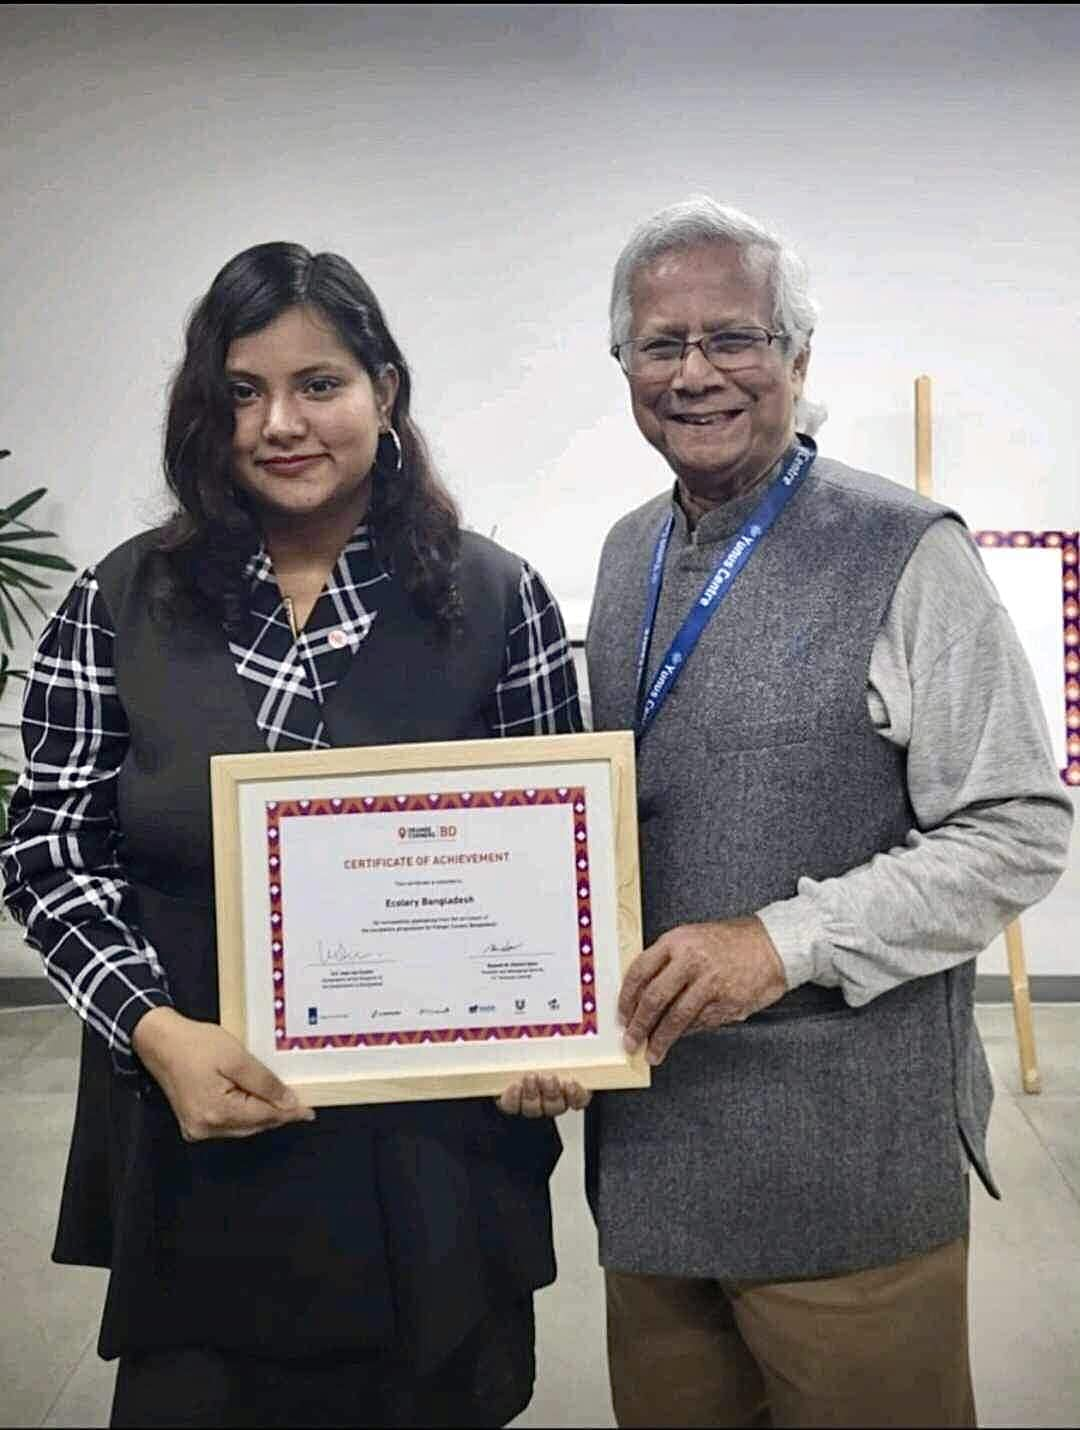
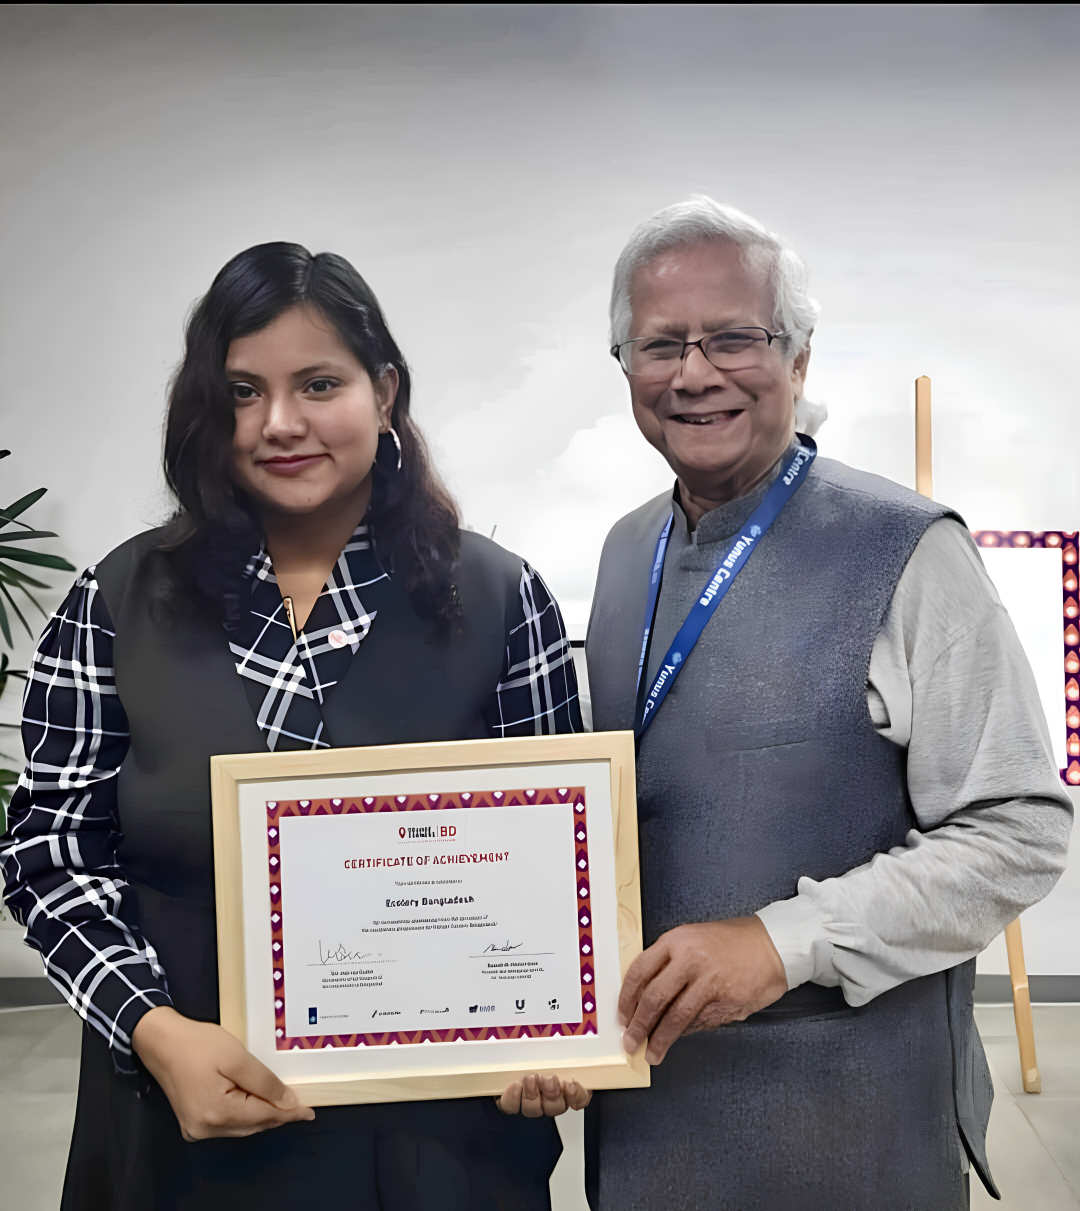
added imagin bento

diff --git a/src/components/template/ImpactSection.tsx b/src/components/template/ImpactSection.tsx
@@ -1,12 +1,12 @@
 "use client";
 
-import { motion, useScroll, useTransform } from "framer-motion";
-import Image from "next/image";
-import { useEffect, useRef } from "react";
 import { ImageWithFallback } from "@/components/shared/ImageWithFallback";
-import { ArrowUpRight, Leaf } from "lucide-react";
-import Link from "next/link";
 import { StaggerChildren, staggerItem } from "@/components/shared/StaggerChildren";
+import { motion, useScroll, useTransform } from "framer-motion";
+import { ArrowUpRight, Leaf } from "lucide-react";
+import Image from "next/image";
+import Link from "next/link";
+import { useEffect, useRef } from "react";
 
 const metrics = [
   { value: "180", unit: "days", label: "Decomposition cycle in soil" },
@@ -29,35 +29,35 @@ const featureCards = [
     fallback: "Recognition — With Dr. Yunus",
   },
   {
-    image: "/gallery/Project%20ASHAA/Training%20women%20Mymensingh.jpg",
+    image: "/bentoGrid/bento1.jpg",
     title: "Training women in Mymensingh",
     subtitle: "Project ASHAA",
     area: "b",
     fallback: "Project ASHAA training",
   },
   {
-    image: "/gallery/InternationalRelationships/IMG-20260511-WA0004.jpg",
+    image: "/bentoGrid/p6.jpg",
     title: "Relationships across borders",
     subtitle: "International",
     area: "c",
     fallback: "International relationships",
   },
   {
-    image: "/gallery/UNESCO%20Green%20Generation%20Campaign%20/IMG_0225.jpg",
+    image: "/bentoGrid/long1.jpg",
     title: "Campaigns that move crowds",
     subtitle: "UNESCO Green Generation",
     area: "d",
     fallback: "UNESCO campaign",
   },
   {
-    image: "/gallery/Some%20Partnerships/NL1A5447-1.JPG",
+    image: "/bentoGrid/p7.jpg",
     title: "Grown together",
     subtitle: "Partnerships",
     area: "e",
     fallback: "Partnership moment",
   },
   {
-    image: "/gallery/UNESCO%20Green%20Generation%20Campaign%20/IMG20260115154539.jpg",
+    image: "/bentoGrid/long2.jpg",
     title: "On the ground",
     subtitle: "Field moments",
     area: "f",
@@ -89,7 +89,7 @@ function MissionSection() {
           video.currentTime = 0;
         }
       },
-      { threshold: 0.3 }
+      { threshold: 0.3 },
     );
 
     observer.observe(el);
@@ -124,11 +124,8 @@ function MissionSection() {
           </p>
         </motion.div>
 
-        <motion.div
-          style={{ y: videoY }}
-          className="relative"
-        >
-          <div className="relative aspect-video overflow-hidden rounded-[2rem] shadow-2xl shadow-ink/15 -rotate-1 transition-transform duration-500 hover:rotate-0 hover:scale-[1.02]">
+        <motion.div style={{ y: videoY }} className="relative">
+          <div className="shadow-ink/15 relative aspect-video -rotate-1 overflow-hidden rounded-[2rem] shadow-2xl transition-transform duration-500 hover:scale-[1.02] hover:rotate-0">
             <video
               ref={videoRef}
               src="/Product feature.mp4"
@@ -138,7 +135,7 @@ function MissionSection() {
               className="absolute inset-0 h-full w-full object-cover"
             />
           </div>
-          <div className="absolute -inset-4 -z-10 rounded-[2.5rem] bg-primary/5 blur-xl" />
+          <div className="bg-primary/5 absolute -inset-4 -z-10 rounded-[2.5rem] blur-xl" />
         </motion.div>
       </div>
     </section>
@@ -211,7 +208,10 @@ export function ImpactSection() {
       </section>
 
       {/* ---------- IMPACT METRICS BAND ---------- */}
-      <section id="impact" className="bg-moss relative scroll-mt-28 overflow-hidden px-6 py-24 md:py-32">
+      <section
+        id="impact"
+        className="bg-moss relative scroll-mt-28 overflow-hidden px-6 py-24 md:py-32"
+      >
         <div className="relative mx-auto max-w-5xl text-center">
           <div className="flex items-center justify-center gap-3">
             <div className="h-px w-12 bg-white/20" />
@@ -225,15 +225,18 @@ export function ImpactSection() {
             The metrics that tell our circular journey
           </h3>
 
-          <StaggerChildren className="mt-16 grid items-start gap-10 sm:grid-cols-3 sm:gap-0 sm:divide-x sm:divide-white/10" staggerDelay={0.15}>
+          <StaggerChildren
+            className="mt-16 grid items-start gap-10 sm:grid-cols-3 sm:gap-0 sm:divide-x sm:divide-white/10"
+            staggerDelay={0.15}
+          >
             {impactStats.map((m) => (
-              <motion.div key={m.label} variants={staggerItem} className="flex flex-col items-center px-6">
-                <p className="font-display text-5xl font-bold text-white md:text-6xl">
-                  {m.value}
-                </p>
-                <p className="font-body mt-3 text-[13px] font-semibold text-white/50">
-                  {m.label}
-                </p>
+              <motion.div
+                key={m.label}
+                variants={staggerItem}
+                className="flex flex-col items-center px-6"
+              >
+                <p className="font-display text-5xl font-bold text-white md:text-6xl">{m.value}</p>
+                <p className="font-body mt-3 text-[13px] font-semibold text-white/50">{m.label}</p>
               </motion.div>
             ))}
           </StaggerChildren>
@@ -251,7 +254,7 @@ export function ImpactSection() {
             </h3>
             <Link
               href="/gallery"
-              className="group border-black/10 bg-white text-ink hover:border-primary hover:bg-primary hover:text-cream flex shrink-0 items-center gap-2 rounded-full border px-5 py-2.5 text-[13px] font-semibold transition-colors duration-300"
+              className="group text-ink hover:border-primary hover:bg-primary hover:text-cream flex shrink-0 items-center gap-2 rounded-full border border-black/10 bg-white px-5 py-2.5 text-[13px] font-semibold transition-colors duration-300"
             >
               View gallery
               <ArrowUpRight className="h-4 w-4" strokeWidth={1.75} />
@@ -279,14 +282,14 @@ export function ImpactSection() {
                   fallbackLabel={card.fallback}
                 />
                 <div className="from-ink/85 absolute inset-0 bg-linear-to-t via-transparent to-transparent opacity-80 transition-opacity duration-500 group-hover:opacity-95" />
-                <div className="absolute bottom-0 left-0 p-5 md:p-6">
+                {/* <div className="absolute bottom-0 left-0 p-5 md:p-6">
                   <p className="font-body text-[11px] font-semibold tracking-[0.14em] text-white/70 uppercase">
                     {card.subtitle}
                   </p>
                   <p className="font-display mt-1 text-base font-bold text-white md:text-xl">
                     {card.title}
                   </p>
-                </div>
+                </div> */}
               </motion.div>
             ))}
           </StaggerChildren>

diff --git a/src/components/sections/GallerySection.tsx b/src/components/sections/GallerySection.tsx
@@ -127,15 +127,18 @@ export function GallerySection({ categories }: { categories: GalleryCategory[] }
         </motion.div>
 
         <motion.div
-          key={`${active}-${visibleCount}`}
-          initial={{ opacity: 0, y: 16 }}
-          animate={{ opacity: 1, y: 0 }}
-          transition={{ duration: 0.5, ease: EASE }}
+          key={active}
+          initial={{ opacity: 0 }}
+          animate={{ opacity: 1 }}
+          transition={{ duration: 0.2, ease: EASE }}
           className="mt-10 grid grid-cols-2 gap-5 md:grid-cols-3"
         >
           {visible.map((img, idx) => (
-            <figure
+            <motion.figure
               key={img.src}
+              initial={{ opacity: 0, y: 24 }}
+              animate={{ opacity: 1, y: 0 }}
+              transition={{ duration: 0.7, ease: EASE }}
               onClick={() => setSelectedIndex(idx)}
               className="bg-moss/10 group relative aspect-[4/3] cursor-pointer overflow-hidden rounded-2xl"
             >
@@ -153,7 +156,7 @@ export function GallerySection({ categories }: { categories: GalleryCategory[] }
                   {img.label}
                 </p>
               </figcaption>
-            </figure>
+            </motion.figure>
           ))}
         </motion.div>
 
